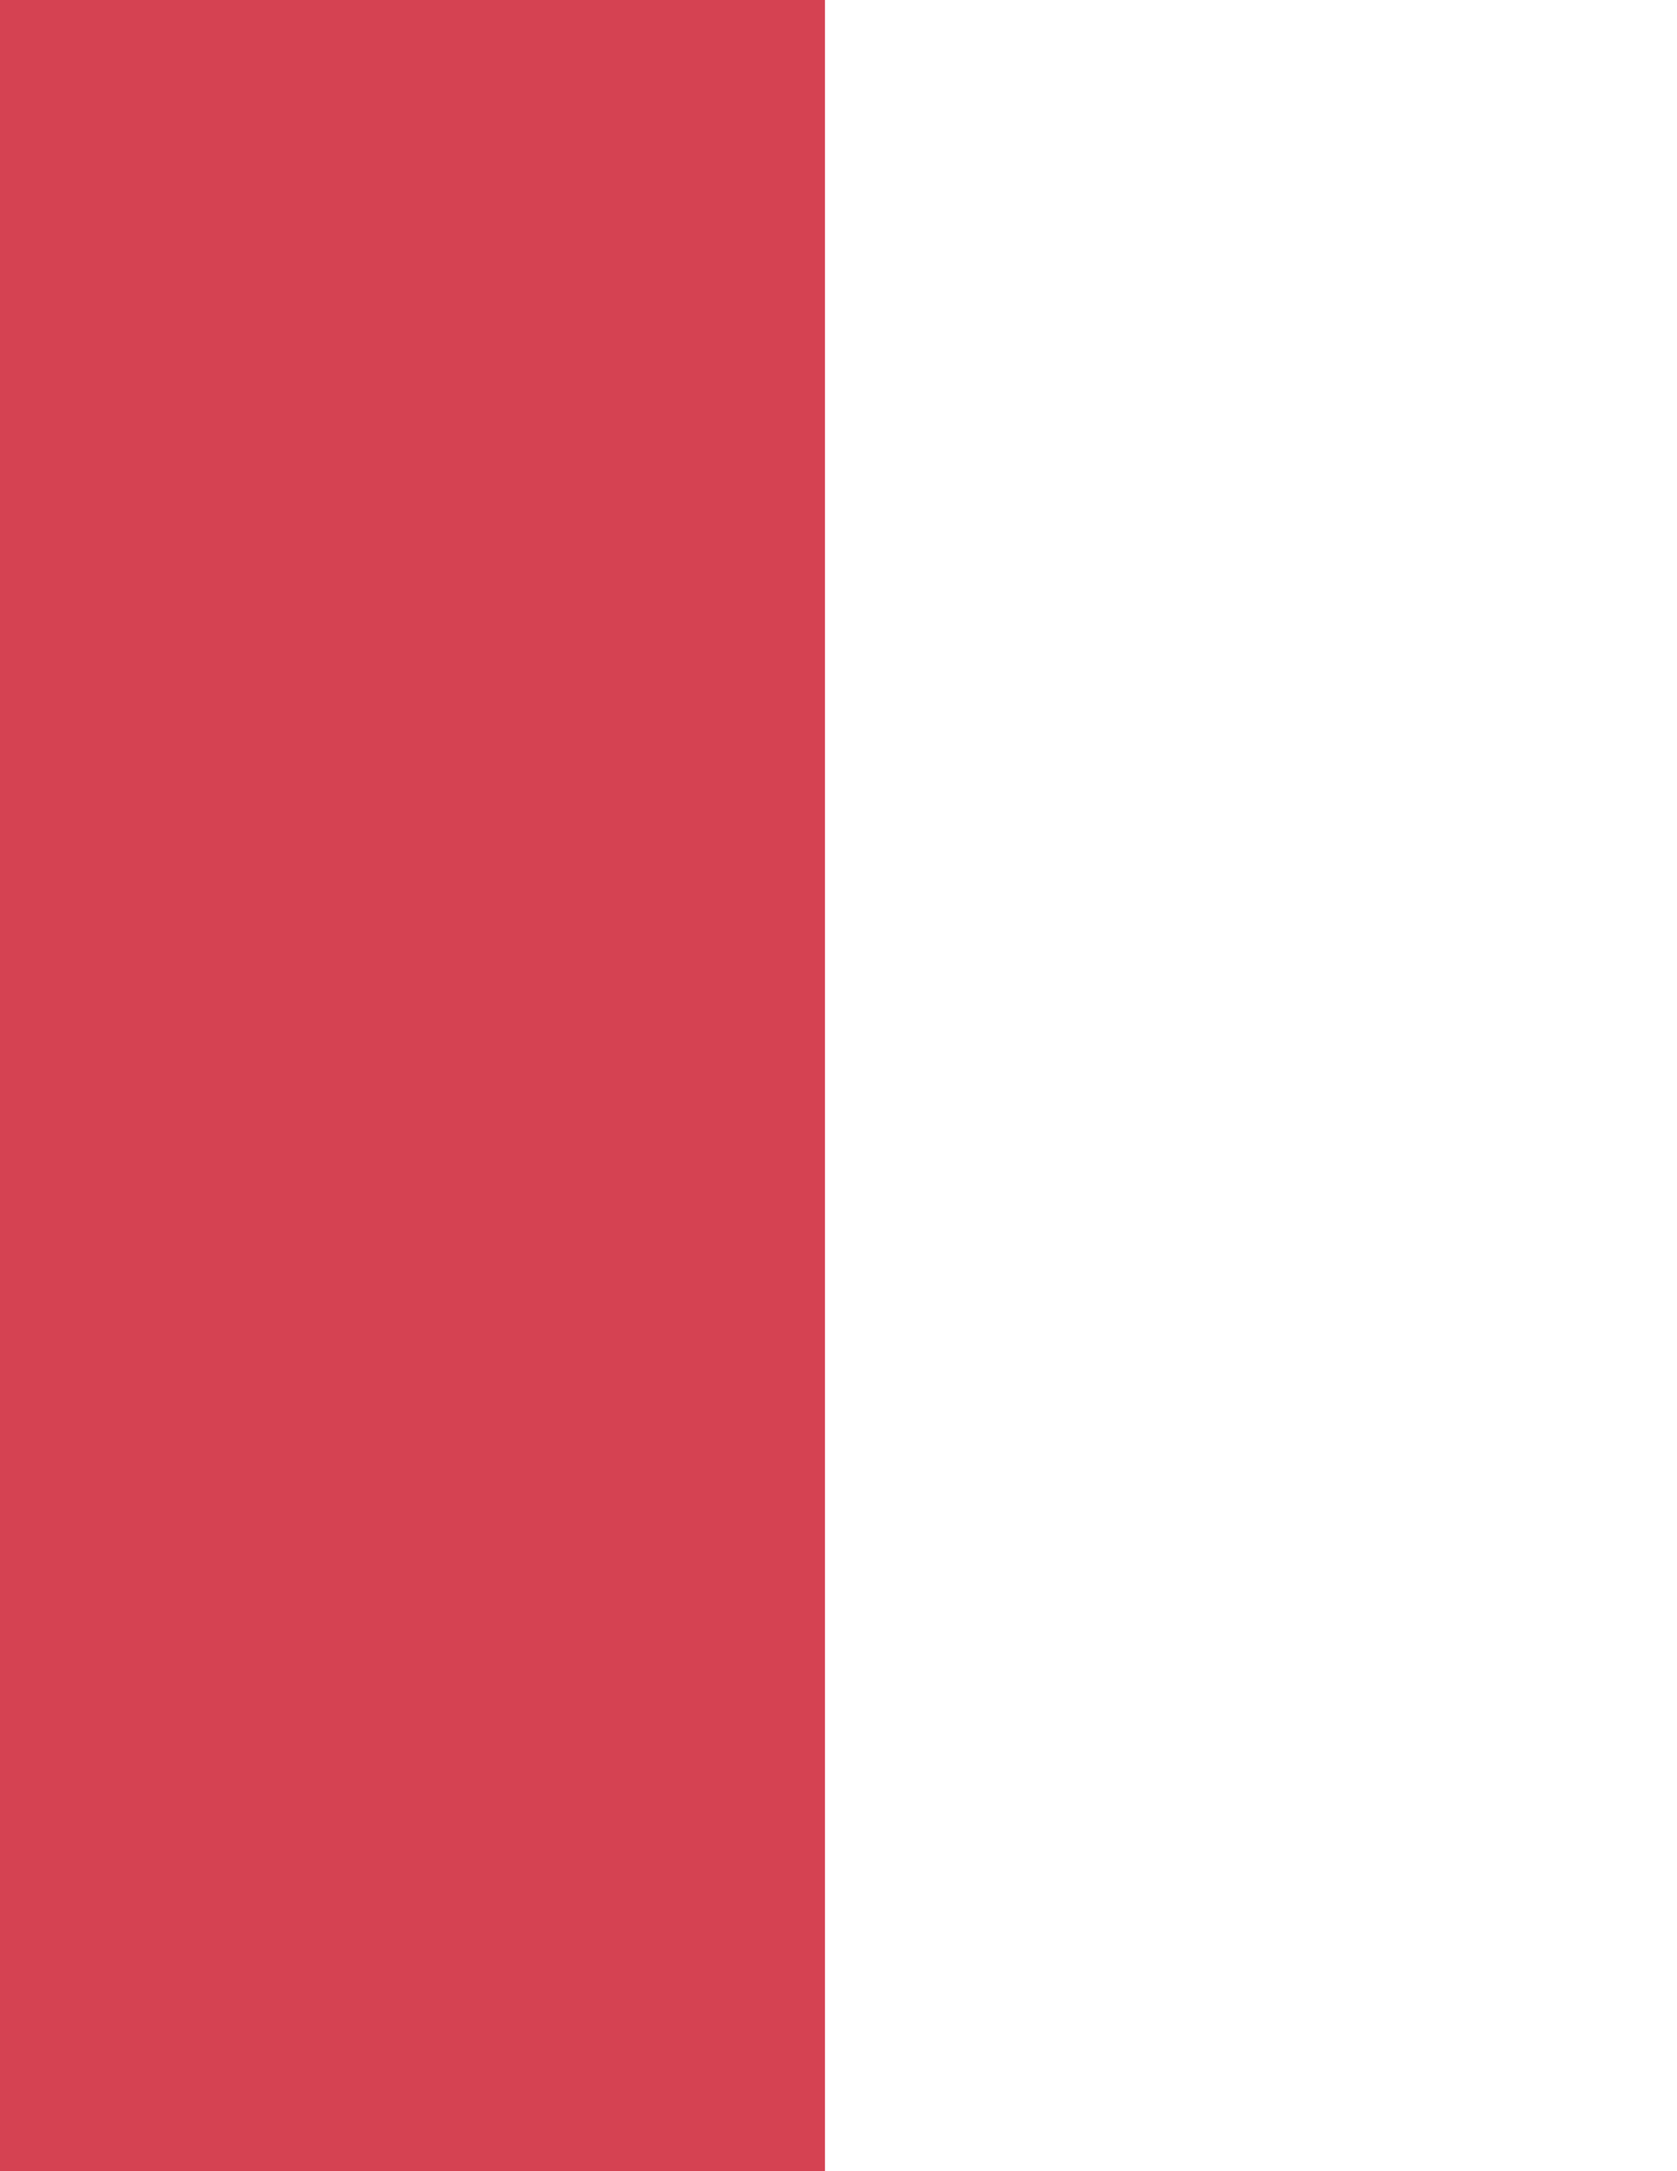
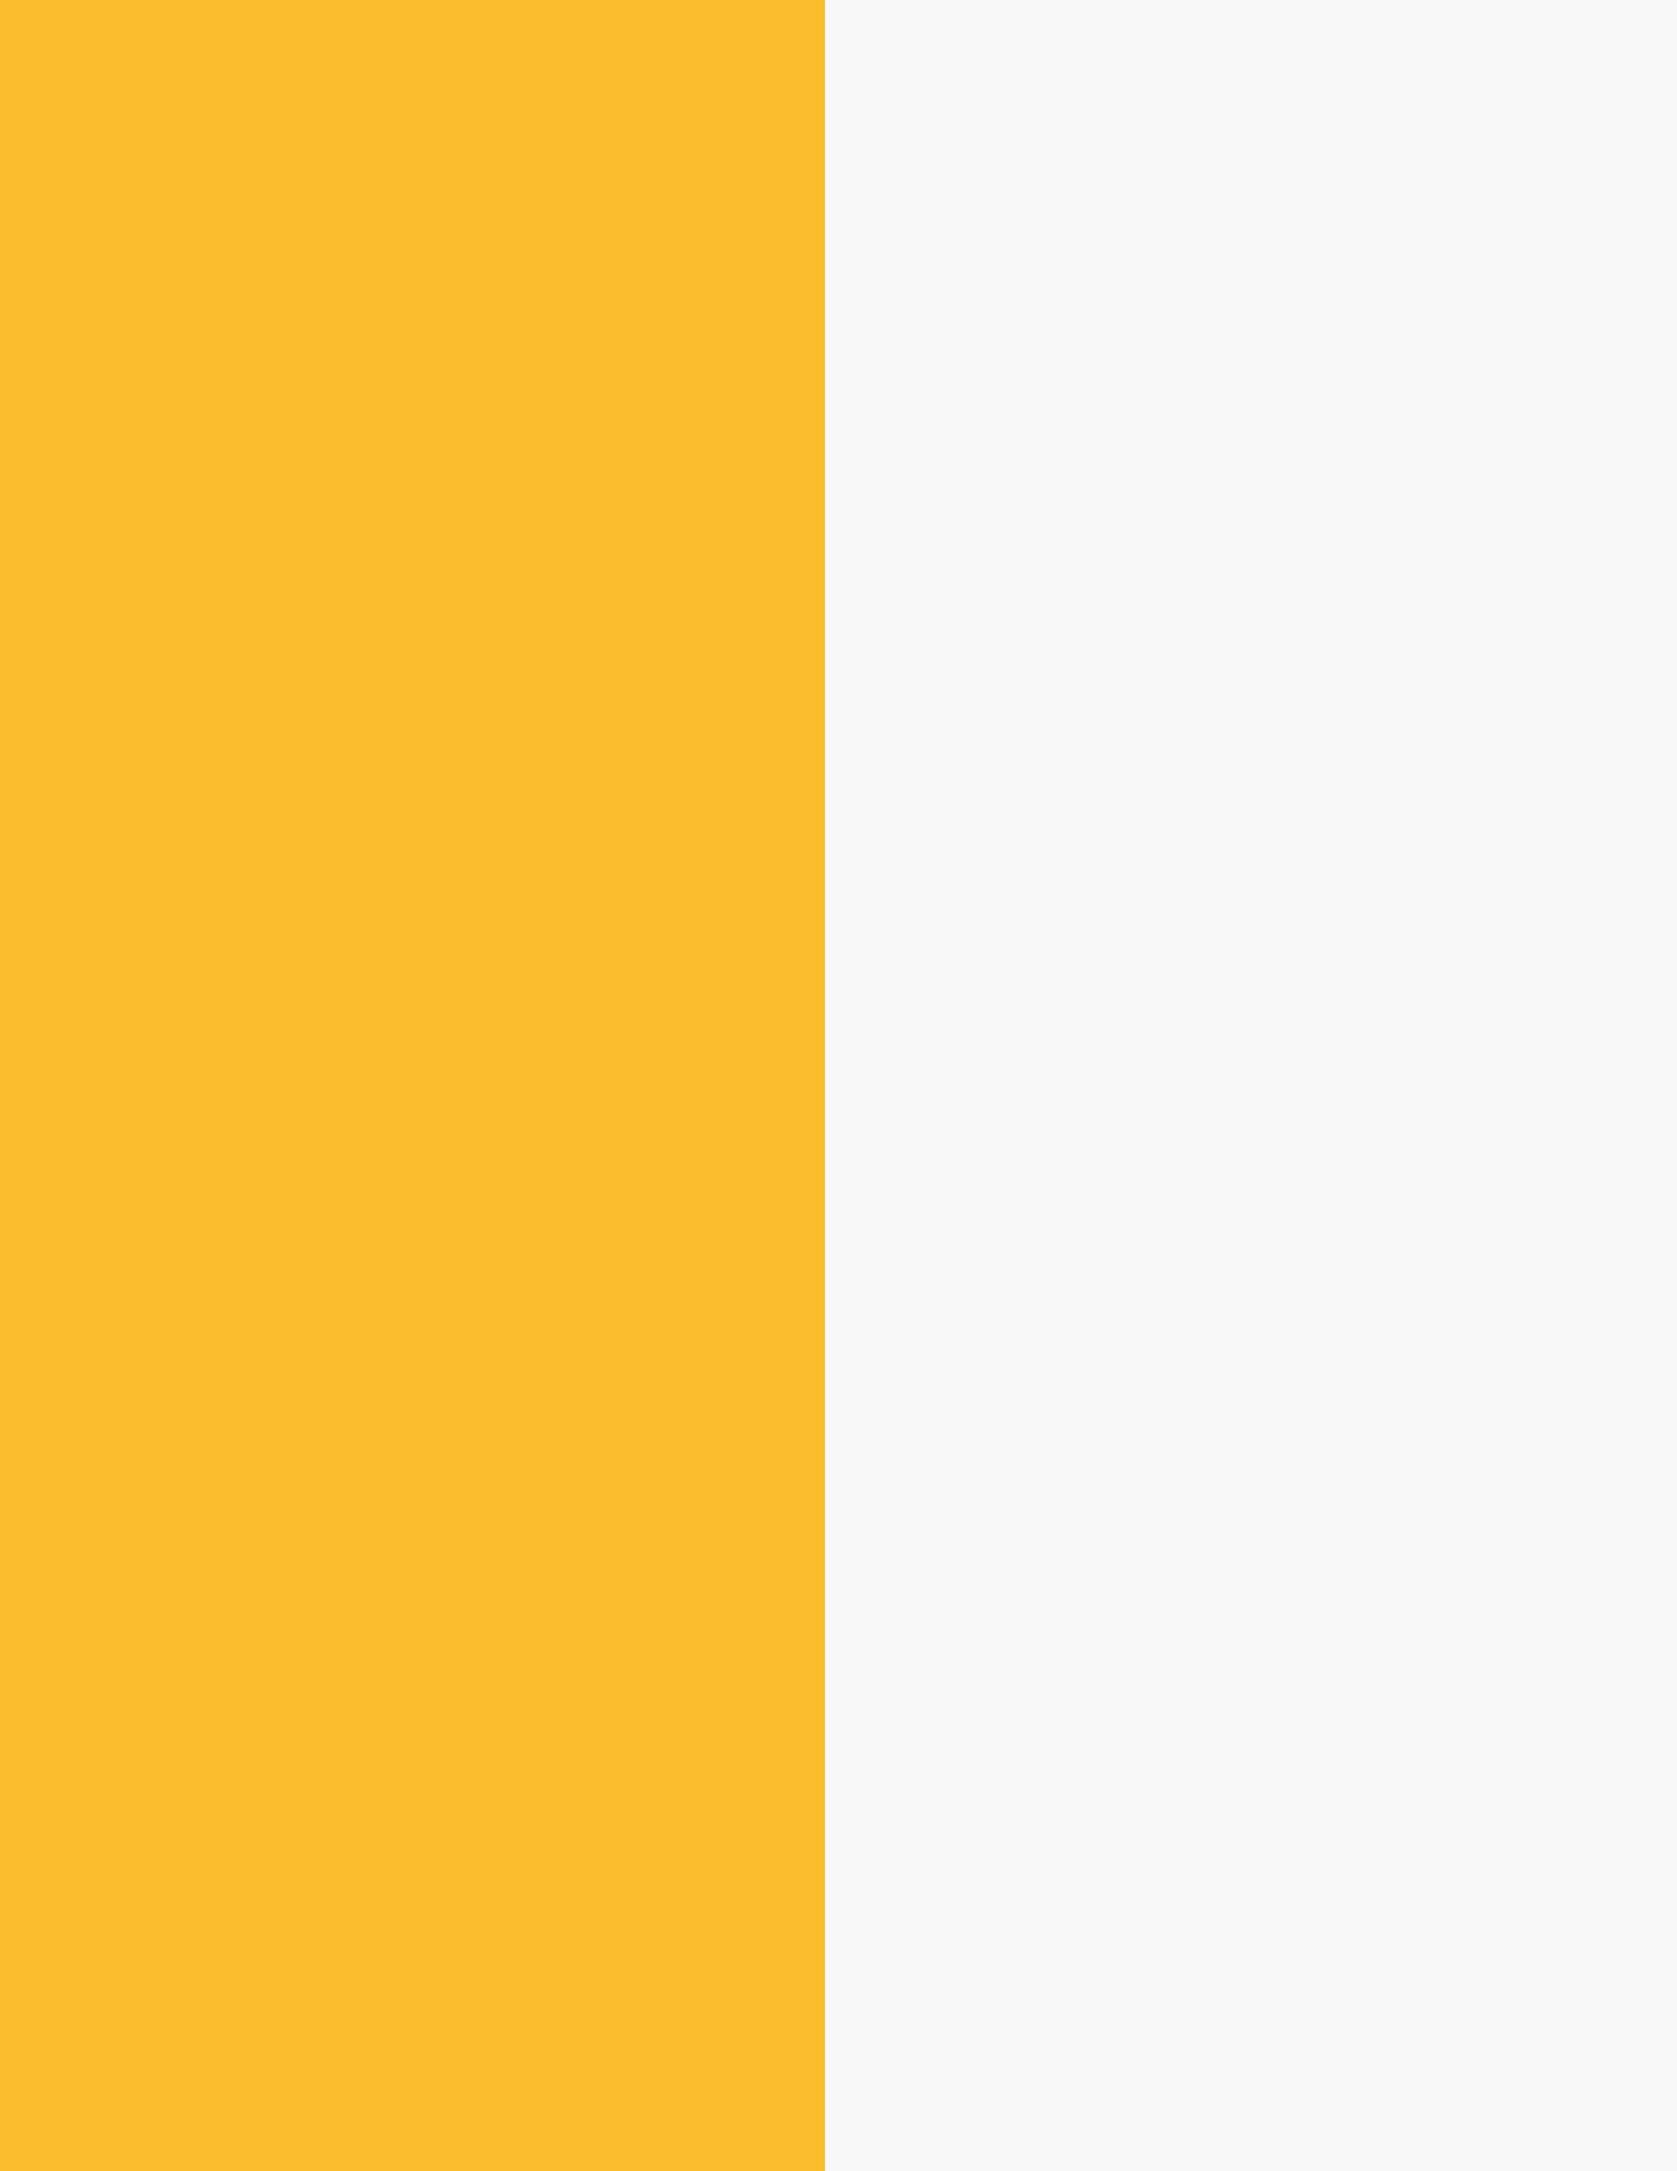
Add files via upload
26/08/2021 noche

diff --git a/portafolio diseño grafico/css/style.css b/portafolio diseño grafico/css/style.css
@@ -47,6 +47,9 @@ body{
     margin-bottom: 20px;
     font-size: 100px;
 }
+.titulo span{
+    color: #FABE2C;
+}
 
 
 /*----------*/
@@ -64,6 +67,36 @@ body{
     margin-top: 42px;
     margin-bottom: 25px;
     align-items: center;
+}
+.list-socials{
+    list-style: none;
+    position: fixed;
+    z-index: 1000;
+    top: 50%;
+    right: 20px;
+    z-index: 500;
+    -webkit-transform: translate(50%, -50%);
+    -moz-transform: translate(50%, -50%);
+    -ms-transform: translate(50%, -50%);
+    -o-transform: translate(50%, -50%);
+    transform: translate(50%, -50%);
+    -webkit-transition: -webkit-transform 500ms cubic-bezier(0.7, 0, 0.3, 1) 0ms;
+    -moz-transition: -moz-transform 500ms cubic-bezier(0.7, 0, 0.3, 1) 0ms;
+    transition: transform 500ms cubic-bezier(0.7, 0, 0.3, 1) 0ms;
+}
+.list-socials li a {
+    height: 25px;
+    width: 25px;
+    line-height: 25px;
+    display: block;
+    text-align: center;
+}
+.list-socials li{
+    padding-bottom: 6px;
+    margin-right: 60px;
+}
+.list-socials li a img{
+    height: 20px;
 }
 
 
@@ -84,26 +117,41 @@ body{
     letter-spacing: 2px;
 }
 .menu li a:hover{
-    color: #D54252;
+    color: #FABE2C;
+    transition: 0.4s;
+    -webkit-transition: 0.4s;
+    -moz-transition: 0.4s;
+    -ms-transition: 0.4s;
+    -o-transition: 0.4s;
 }
 
 
 /*----------*/
 /*Sobre mi*/
 /*----------*/
+.web-1280{
+    max-width: 1280px;
+    width: 90%;
+    margin: auto;
+}
+.sobre-mi{
+    background-color: #F8F8F8;
+    padding: 30px;
+}
 .sobre-mi h3{
     letter-spacing: 1px;
-    margin-top: 190px;
+    margin-top: 120px;
     text-align: center;
     font-size: 47px;
-    color: #D54252;
+    color: black;
+    text-transform: uppercase;
 }
 .sobremi-text{
     width: 71%;
 }
 .sobremi-text p{
     text-align: center;
-    margin: 60px 0 60px 44%;
+    margin: 60px 0 50px 44%;
     text-align: justify;
     font-size: 16px;
 }
@@ -112,20 +160,20 @@ body{
 }
 .foto-mi img{
     display: inline-block;
-    margin: 15px 0 45px 44%;
+    margin: 15px 0 45px 41%;
     width: 500px;
 }
 .cuadrado-sobremi{
-    background-color: #D54252;
+    background-color: #FABE2C;
     width: 12%;
     height: 4px;
-    margin: 40px 0 20px 44%;
+    margin: 18px 0 20px 44%;
 }
 .portafolio{
-    padding: 15px;
     text-align: center;
-    color: #D54252;
+    /*color: #FABE2C;*/
     font-size: 16px;
+    font-weight: 100;
 }
 
 

diff --git a/portafolio diseño grafico/paginas/index.html b/portafolio diseño grafico/paginas/index.html
@@ -10,10 +10,11 @@
       type="image/png"
       href="https://www.wokine.com/wp-content/themes/wokine/assets/fav.png"
     />
+    <link rel="stylesheet" href="https://unicons.iconscout.com/release/v4.0.0/css/thinline.css">
     <title>Portafolio</title>
   </head>
   <body>
-    <header>
+    <header class="web-1280">
       <div class="contenedor">
         <img class="logo" src="../imagenes/logo.png" alt="logo portafolio" />
         <nav>
@@ -29,14 +30,25 @@
           <h2>WEB</h2>
           <h3 class="titulo-por">POR</h3>
           <h3 class="titulo-tafo">TAFO</h3>
-          <h3 class="titulo-lio">LIO</h3>
+          <h3 class="titulo-lio">LIO <span>.</span></h3>
         </div>
       </div>
+      <ul class="list-socials">
+        <li>
+          <a class="facebook" href="https://www.facebook.com/josecarlos.cabreraonque/" target="_blank"><img src="../imagenes/icon-facebook.png" alt="icon facebook"></a>
+        </li>
+        <li>
+          <a class="twitter" href="https://www.twitter.com" target="_blank"><img src="../imagenes/icon-twitter.png" alt="icon twitter"></a>
+        </li>
+        <li>
+          <a class="github" href="https://www.github.com" target="_blank"><img src="../imagenes/icon-github.png" alt="icon github"></a>
+        </li>
+      </ul>
     </header>
-    <div class="sobre-mi">
+    <div class="sobre-mi web-1280">
       <article>
         <section>
-          <h3 id="sobremi">Sobre mi</h3>
+            <img src="" alt=""id="sobremi">
           <div class="sobremi-text">
             <p>
               "Lorem ipsum dolor sit amet consectetur, adipisicing elit. Nobis
@@ -59,10 +71,12 @@
             Portafolio 2021
           </p>
         </section>
-        <section>
-          <h3 id="proyectos">Proyectos</h3>
-        </section>
       </article>
+    </div>
+    <div class="proyects">
+      <section>
+        <h3 id="proyectos">Proyectos</h3>
+      </section>
     </div>
   </body>
 </html>
